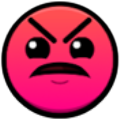
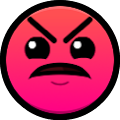
1.4.2

Changed region(s): [[0.0, 0.0, 1.0, 1.0], [0.35, 0.225, 0.375, 0.25]]

diff --git a/changelog.md b/changelog.md
@@ -1,3 +1,6 @@
+# 1.4.2
+ * Updated Textures for Legacy and Casual
+
 # 1.4.1
  * Bugfix
  
